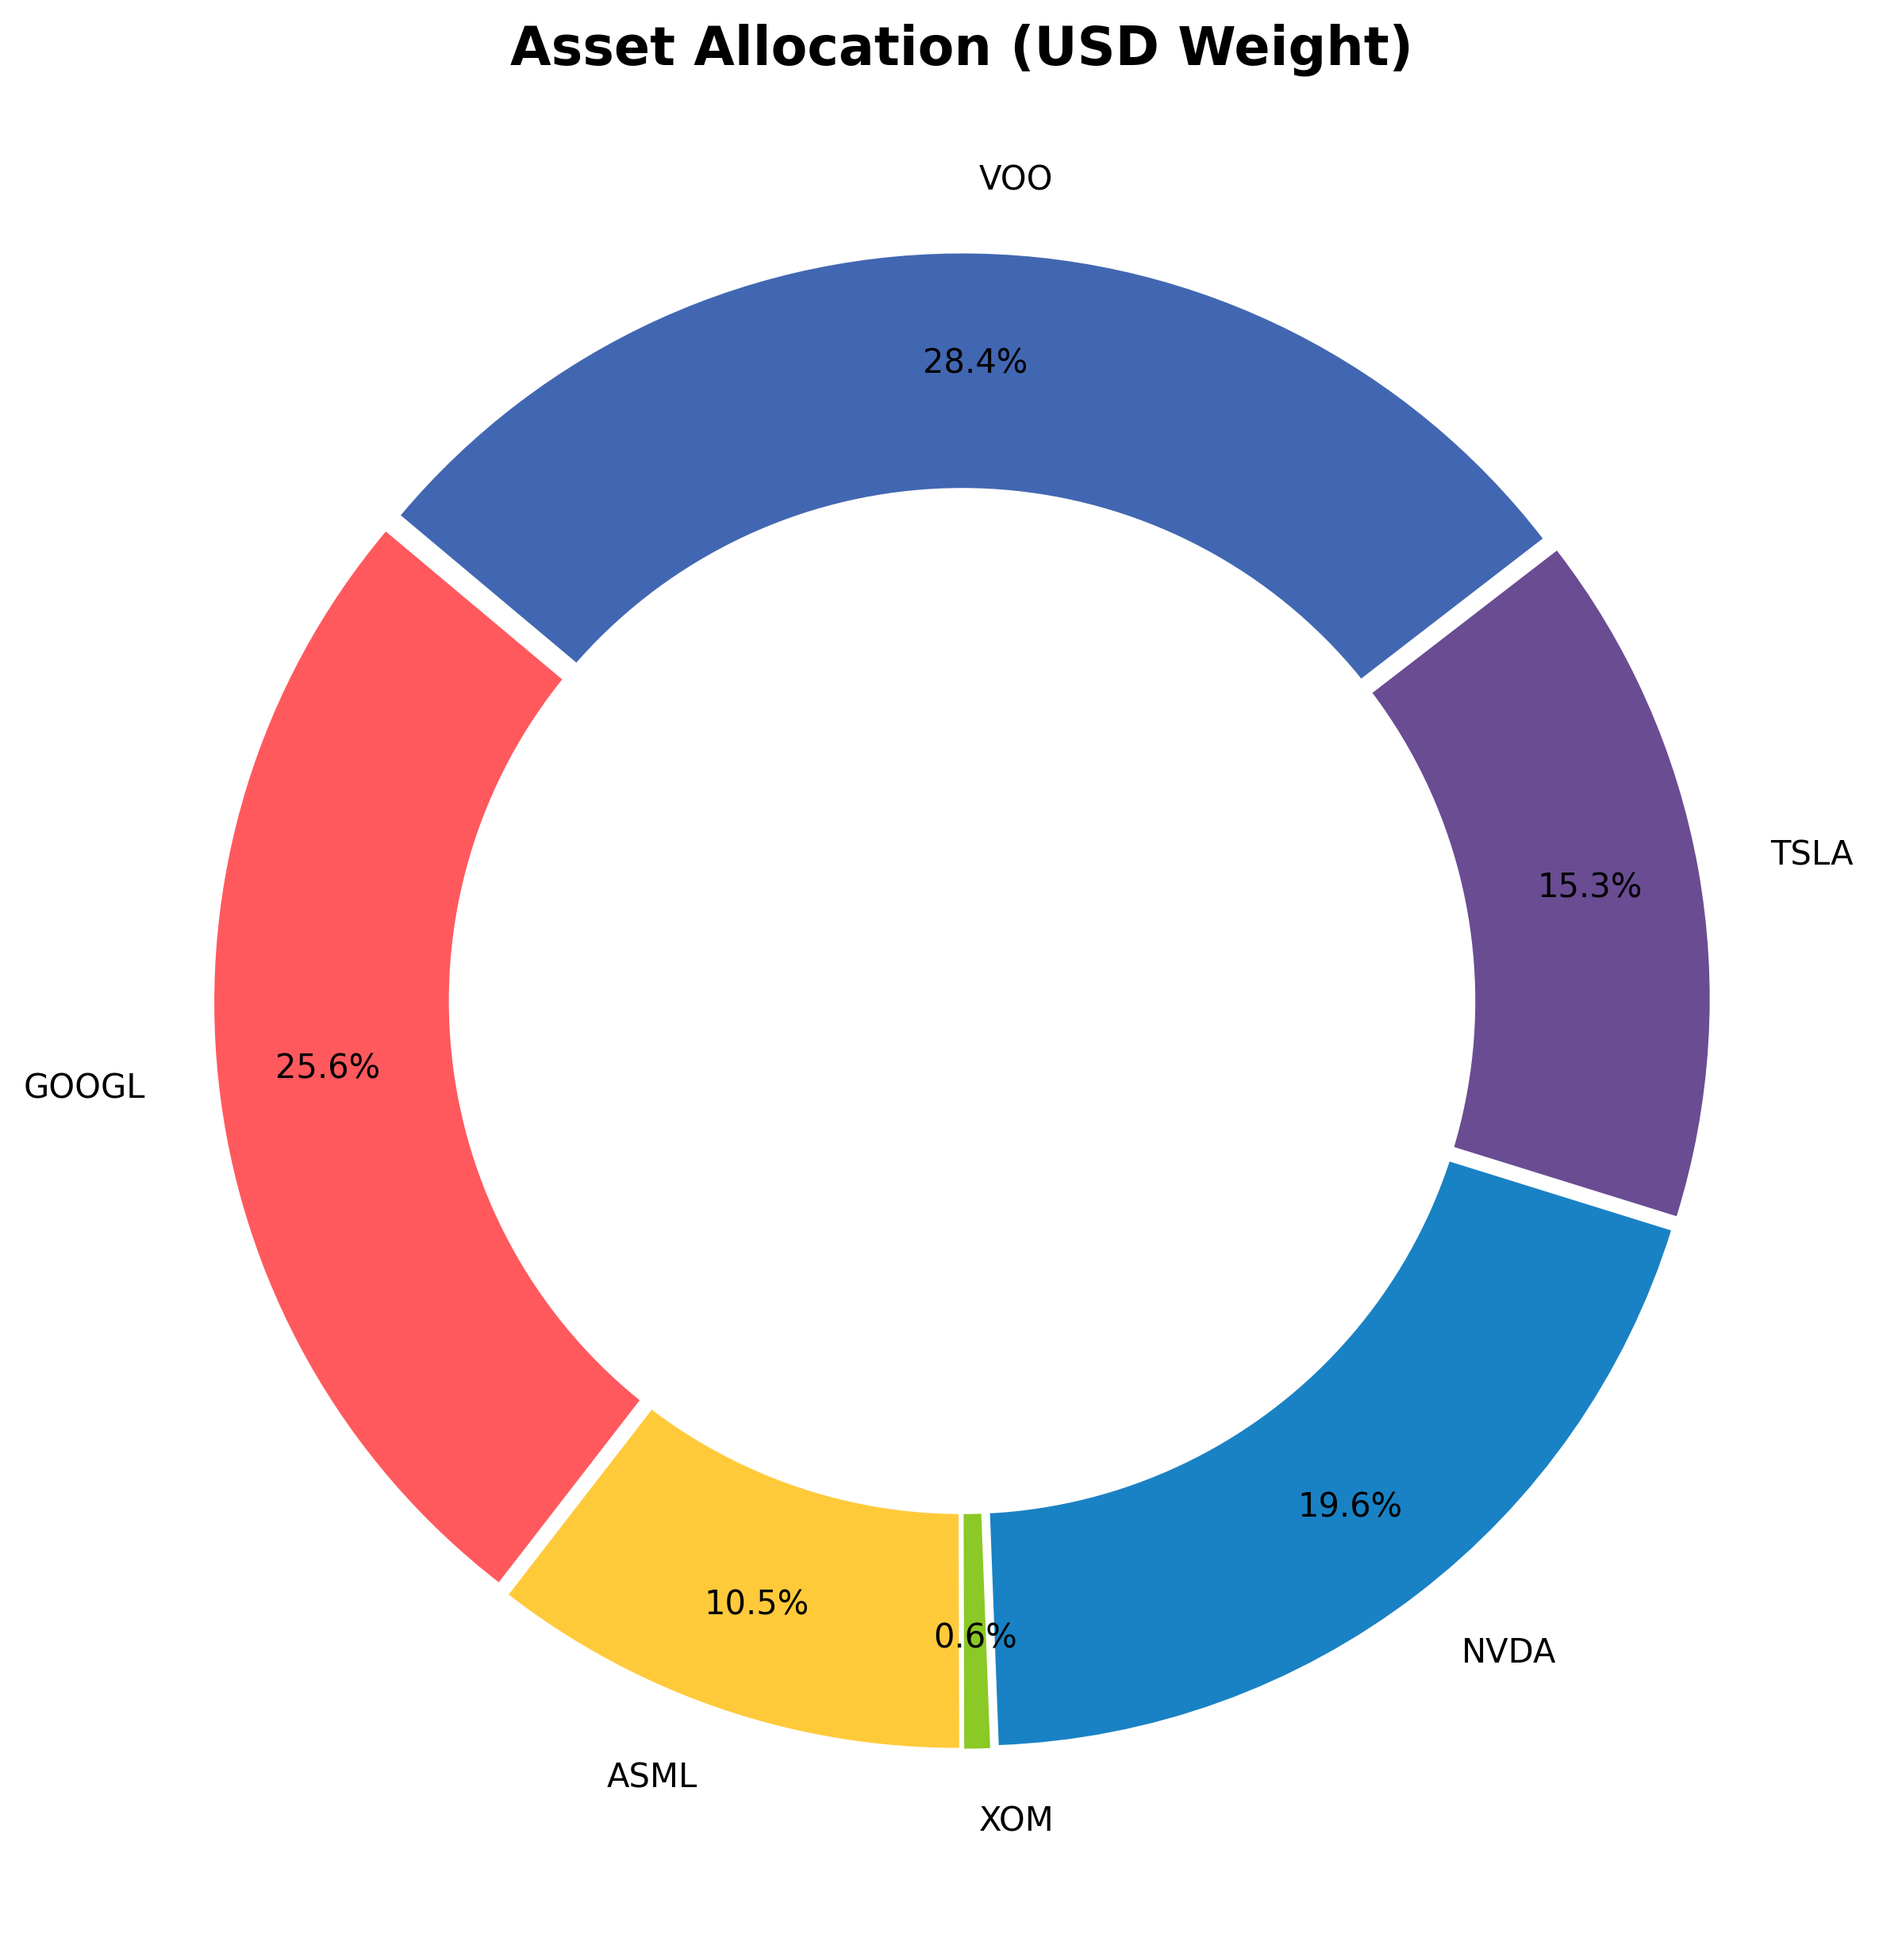
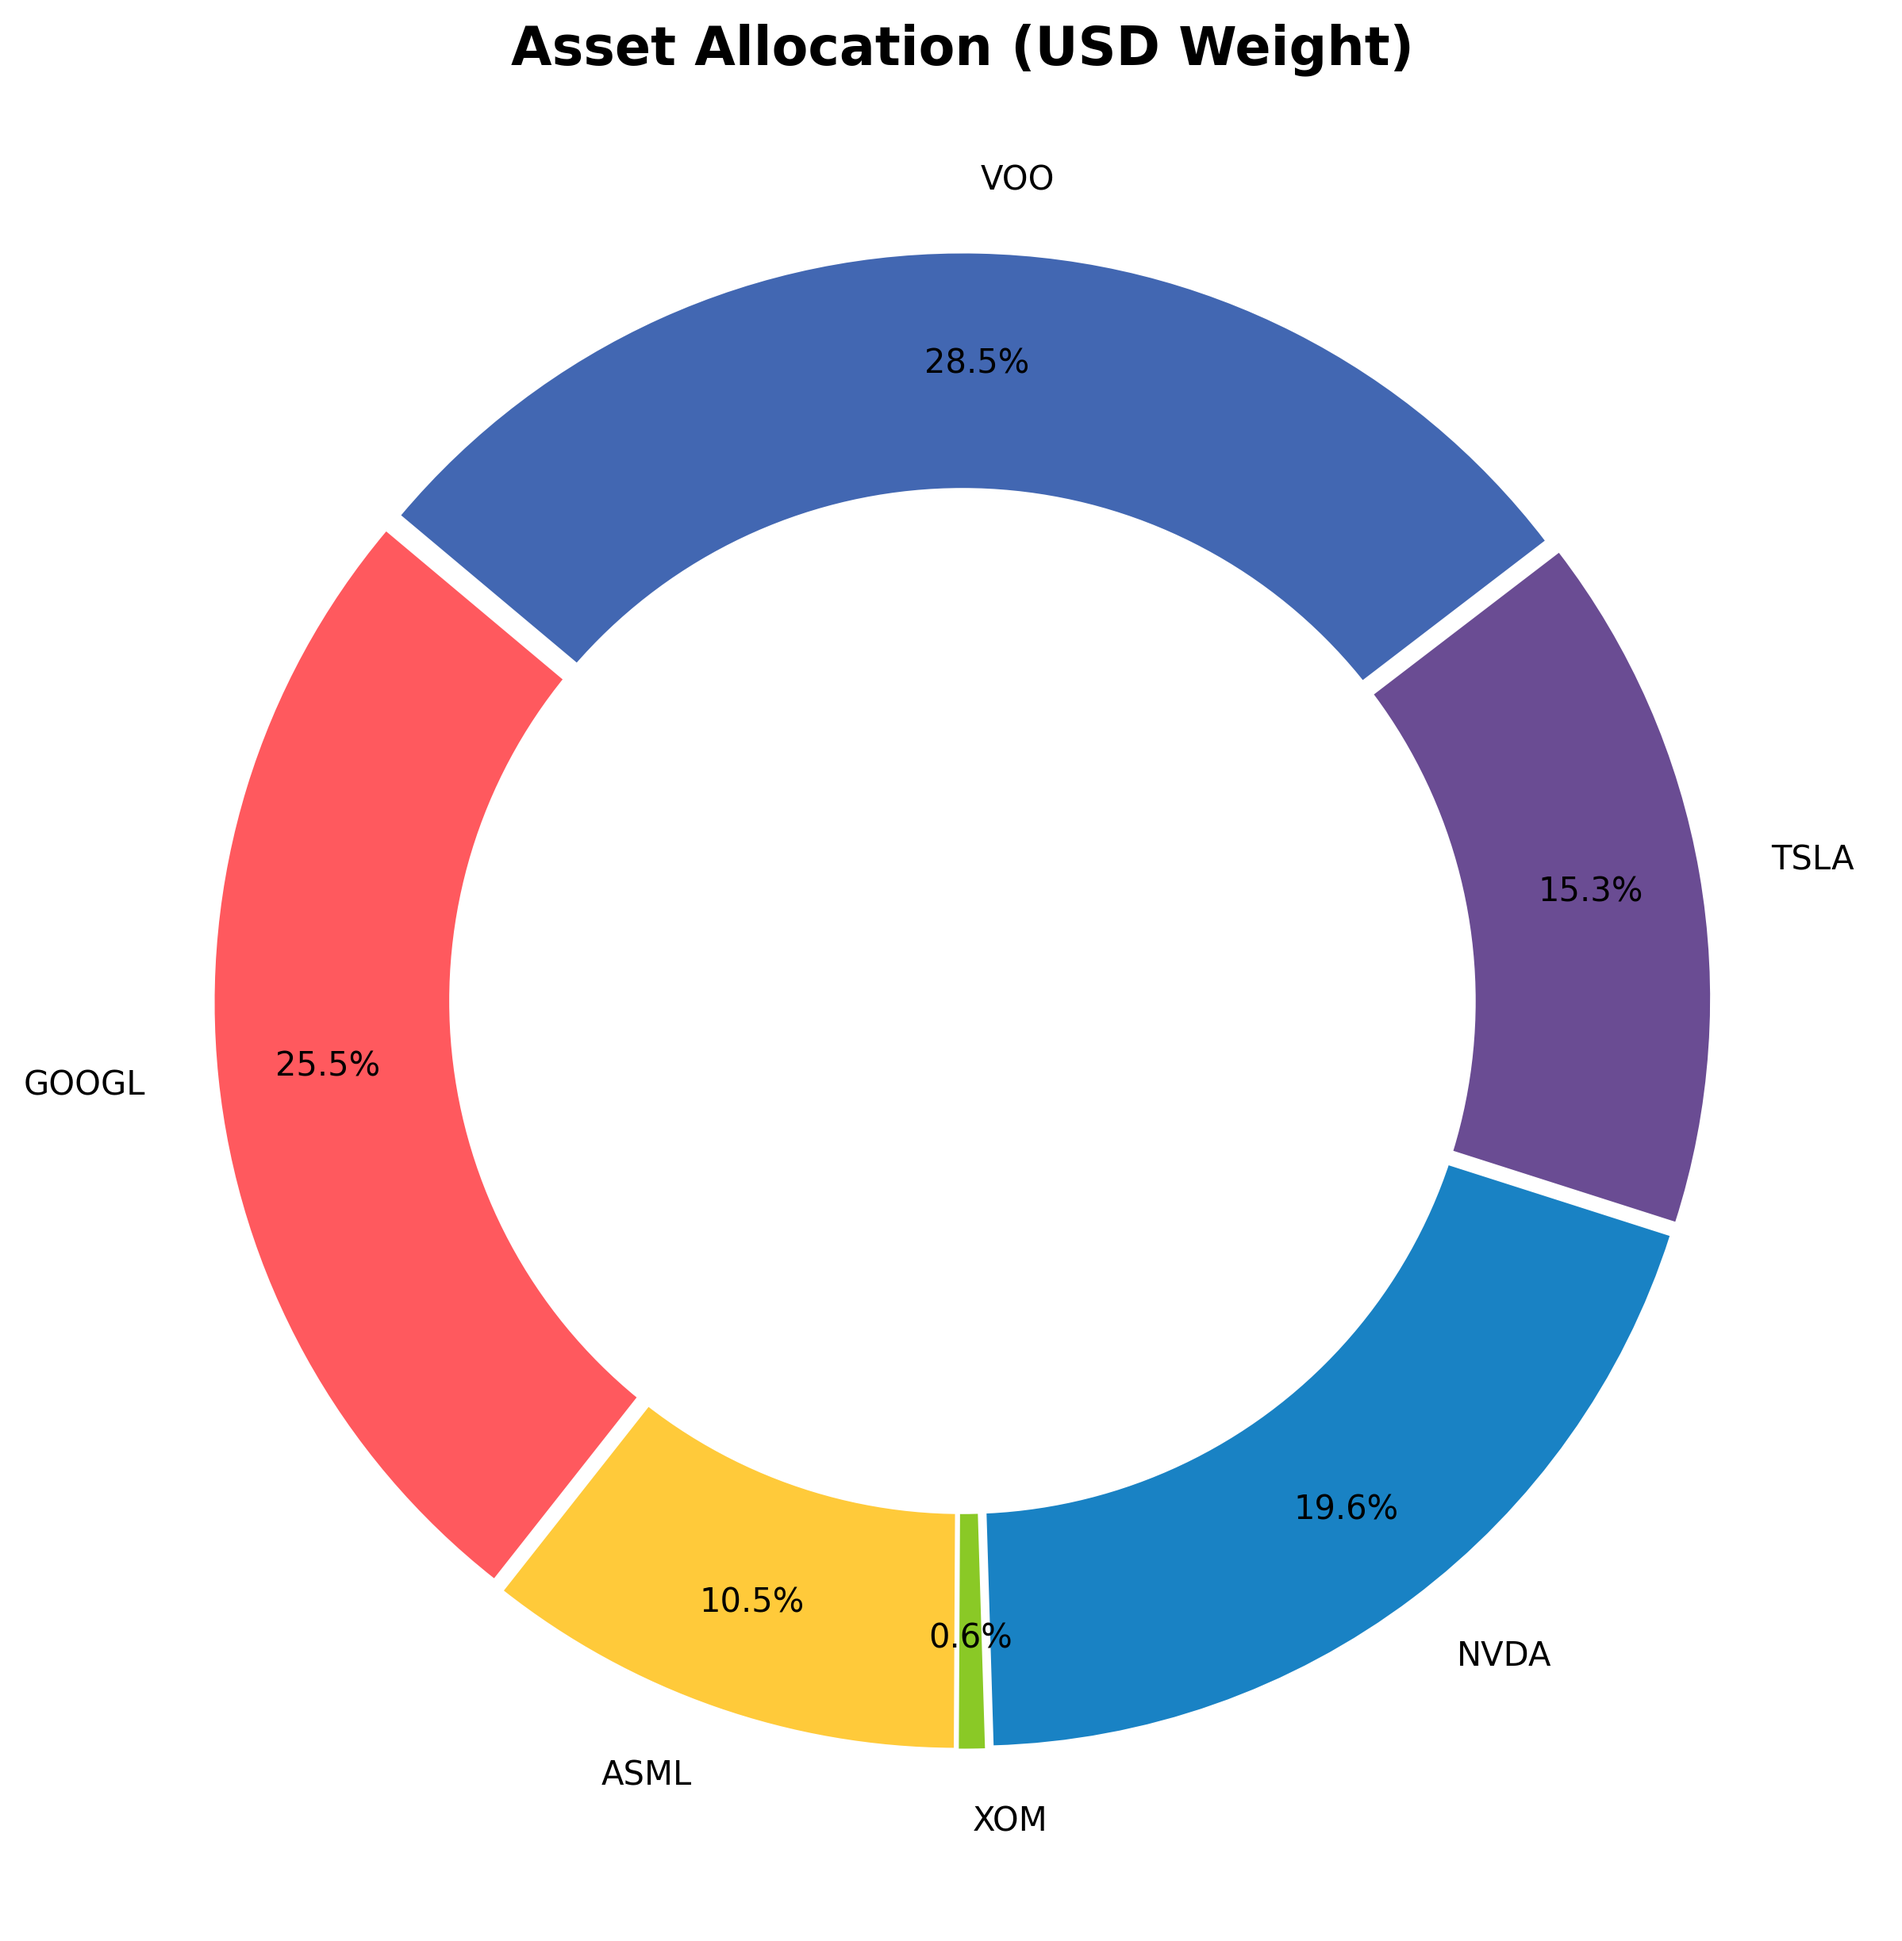
System Run: Analytics & Archive Update [skip ci]

diff --git a/README.md b/README.md
@@ -1,23 +1,23 @@
 # 📊 Portfolio Dashboard | מעקב תיק השקעות
-**Last Update:** 05/03/2026 00:38 | **USD/ILS:** ₪3.071
+**Last Update:** 05/03/2026 16:53 | **USD/ILS:** ₪3.077
 
 ## 💰 Portfolio Summary | סיכום התיק
 | Metric | Value | נתון |
 | :--- | :--- | :--- |
-| **Current Value** | `₪163,377` | **שווי נוכחי** |
-| **Total Invested** | `₪128,968` | **סך השקעה** |
-| **Total Profit/Loss** | `+26.68%` (₪34,409) | **רווח/הפסד כולל** |
-| **Daily Change** | `+1.28%` | **שינוי יומי** |
+| **Current Value** | `₪162,960` | **שווי נוכחי** |
+| **Total Invested** | `₪129,245` | **סך השקעה** |
+| **Total Profit/Loss** | `+26.09%` (₪33,715) | **רווח/הפסד כולל** |
+| **Daily Change** | `+0.41%` | **שינוי יומי** |
 
 ## 📜 Holdings | פירוט החזקות
 | Ticker | Shares | Avg. Cost | Current Price | P&L % | P&L ILS |
 | :--- | :--- | :--- | :--- | :--- | :--- |
-| GOOGL | 45 | $181.15 | $303.03 | 🟢 +67.28% | ₪16,842 |
-| ASML | 4 | $934.51 | $1,399.49 | 🟢 +49.76% | ₪5,711 |
-| XOM | 2 | $126.08 | $149.78 | 🟢 +18.80% | ₪146 |
-| NVDA | 57 | $148.62 | $182.91 | 🟢 +23.07% | ₪6,002 |
-| TSLA | 20 | $436.45 | $406.07 | 🔴 -6.96% | ₪-1,866 |
-| VOO | 24 | $527.38 | $630.16 | 🟢 +19.49% | ₪7,575 |
+| GOOGL | 45 | $181.15 | $299.97 | 🟢 +65.59% | ₪16,454 |
+| ASML | 4 | $934.51 | $1,395.05 | 🟢 +49.28% | ₪5,669 |
+| XOM | 2 | $126.08 | $150.39 | 🟢 +19.28% | ₪150 |
+| NVDA | 57 | $148.62 | $182.00 | 🟢 +22.46% | ₪5,855 |
+| TSLA | 20 | $436.45 | $405.89 | 🔴 -7.00% | ₪-1,881 |
+| VOO | 24 | $527.38 | $628.50 | 🟢 +19.17% | ₪7,468 |
 
 ## 📈 Charts | גרפים
 ![Performance](./data_hub/portfolio_performance.png)
